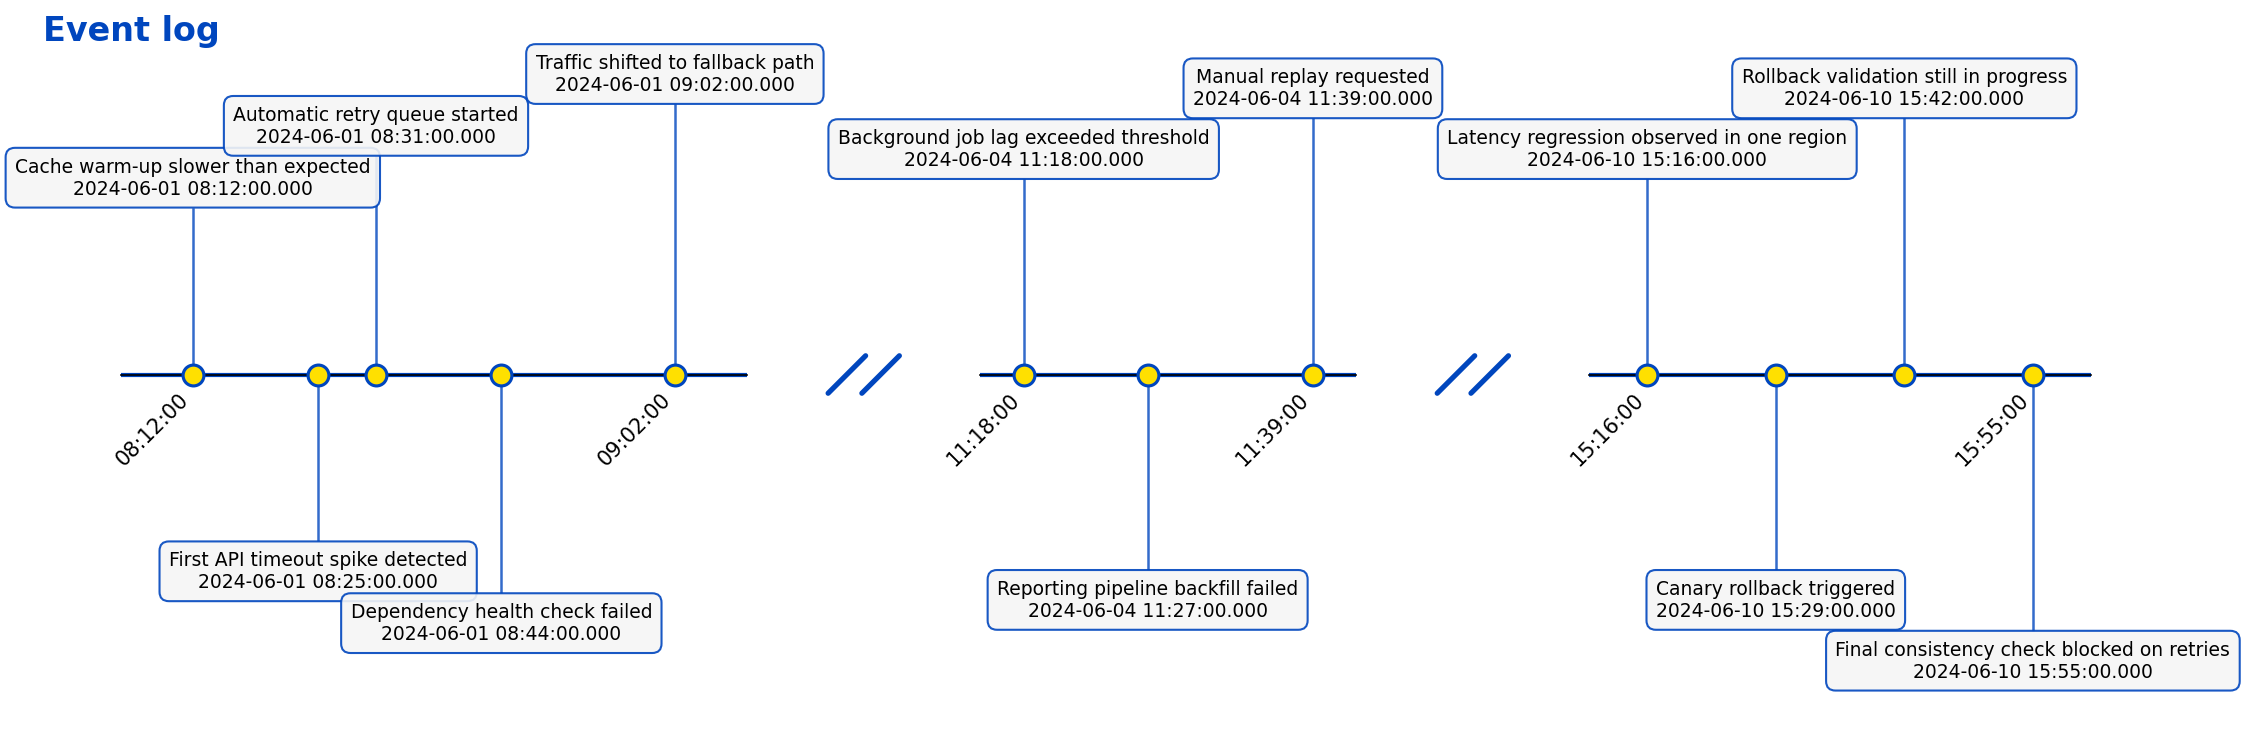
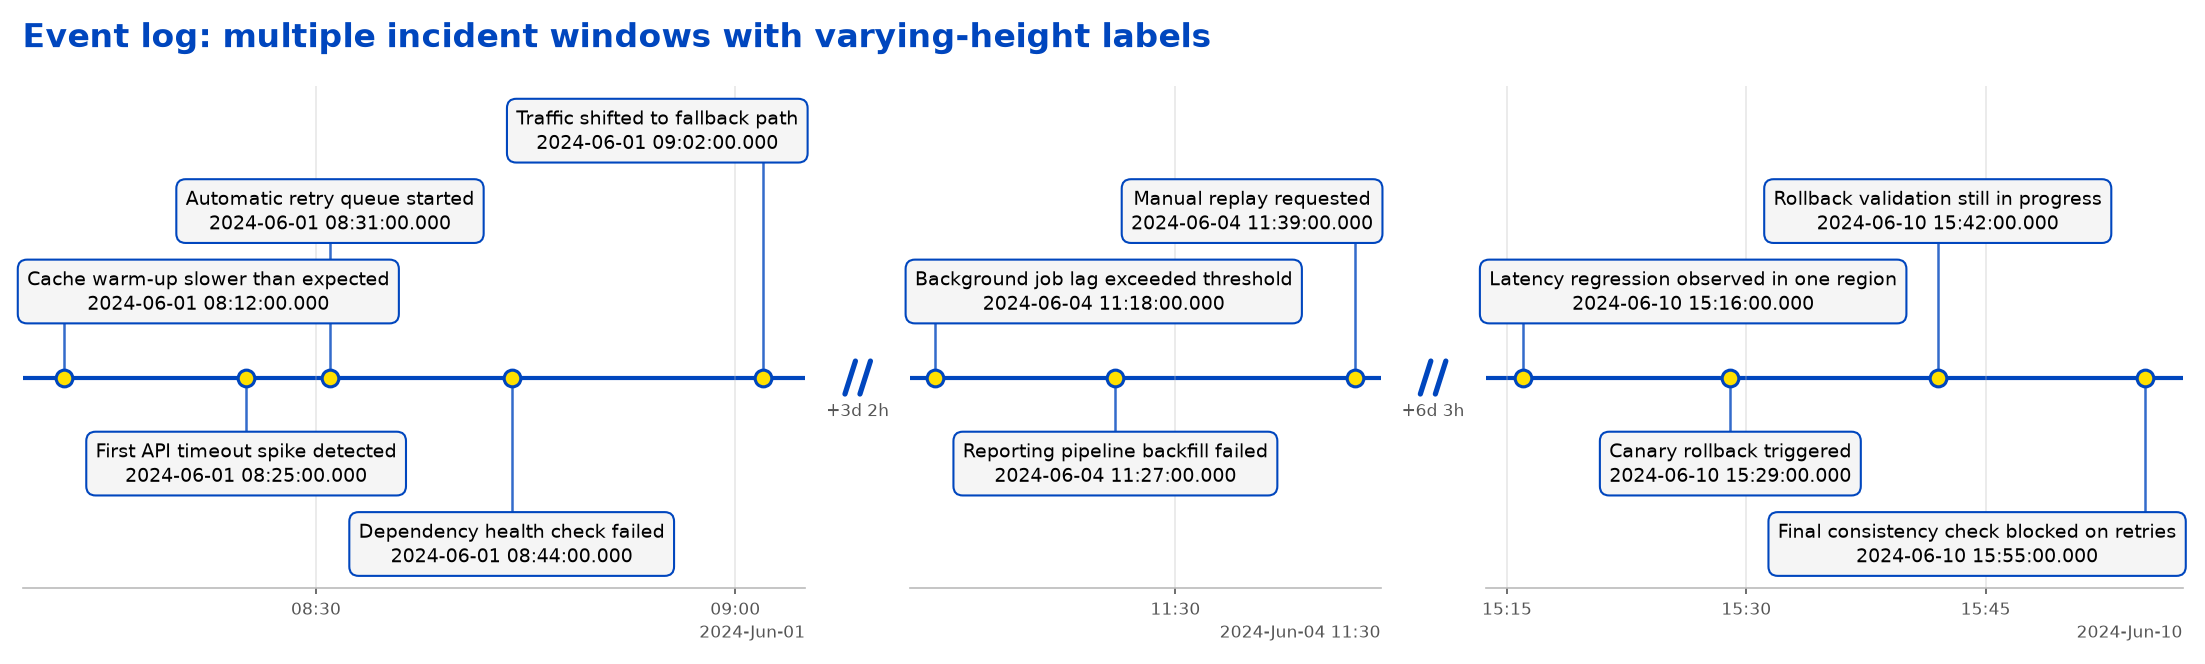
Document the new layout and regenerate timeline images
- README: layout pipeline, Timeline/render_timeline API, figsize and
  --format; DEVELOPING project layout; CHANGELOG Unreleased entries.
- examples/patient_journeys.csv and gen_charts.py now produce the
  README hero image (timeline1.png); event-log charts use auto height.
- Regenerated the five timeline images. Promtest images are left
  untouched since promtest rendering did not change.

diff --git a/examples/gen_charts.py b/examples/gen_charts.py
@@ -16,6 +16,8 @@ Writes to ``images/``:
   labels and multiple time breaks
 - ``raw_kubectl_log_timeline.png`` — raw kubectl-style timestamped logs via CLI parser
 - ``raw_timestamped_log_timeline.png`` — generic timestamp-first application logs
+- ``timeline1.png`` — wide-format README hero (``examples/patient_journeys.csv``,
+  first patient, with a time-gap break)
 """
 
 import os
@@ -23,9 +25,11 @@ import os
 import matplotlib
 
 matplotlib.use("Agg")
+import pandas as pd
+
 from timelineviz.cli import _load_event_log_input
 from timelineviz.promtest import parse_promtest_file, parse_promtest_string, plot_promtest
-from timelineviz.timeline import plot_event_log_timeline
+from timelineviz.timeline import plot_event_log_timeline, plot_timeline
 
 REPO_ROOT = os.path.abspath(os.path.join(os.path.dirname(__file__), ".."))
 OUT_DIR = os.path.join(REPO_ROOT, "images")
@@ -167,7 +171,7 @@ plot_event_log_timeline(
     show_plot=False,
     output_file=os.path.join(OUT_DIR, "event_log_timeline.png"),
     dpi=150,
-    figsize=(14, 4),
+    figsize=(14, None),  # fixed width, height fits the labels
 )
 print("Saved event_log_timeline.png")
 
@@ -183,7 +187,7 @@ plot_event_log_timeline(
     show_plot=False,
     output_file=os.path.join(OUT_DIR, "event_log_timeline_breaks.png"),
     dpi=150,
-    figsize=(15, 5),
+    figsize=(15, None),
 )
 print("Saved event_log_timeline_breaks.png")
 
@@ -199,7 +203,7 @@ plot_event_log_timeline(
     show_plot=False,
     output_file=os.path.join(OUT_DIR, "raw_kubectl_log_timeline.png"),
     dpi=150,
-    figsize=(15, 5),
+    figsize=(15, None),
 )
 print("Saved raw_kubectl_log_timeline.png")
 
@@ -217,6 +221,18 @@ plot_event_log_timeline(
     show_plot=False,
     output_file=os.path.join(OUT_DIR, "raw_timestamped_log_timeline.png"),
     dpi=150,
-    figsize=(15, 5),
+    figsize=(15, None),
 )
 print("Saved raw_timestamped_log_timeline.png")
+
+
+# Wide format: one row per entity, one column per milestone (README hero image)
+patients = pd.read_csv(os.path.join(EXAMPLES, "patient_journeys.csv"))
+plot_timeline(
+    patients.iloc[[0]],
+    entity_id="12345",
+    title="Patient Timeline - 12345",
+    threshold_days=1,
+    output_file=os.path.join(OUT_DIR, "timeline1.png"),
+    show_plot=False,
+)

diff --git a/README.md b/README.md
@@ -15,7 +15,9 @@ Timeline visualisation for CSV data and Prometheus test files.
 
 - Plot event timelines from CSV / DataFrame timestamp data
 - **Long-format logs** — one timestamp column across many rows, with optional filters on level / event type (incident-style timelines)
-- Handle time gaps with broken timeline display
+- Handle time gaps with broken timeline display, each break labelled with the time skipped
+- Collision-free labels: boxes never overlap and connectors never cross another label, and the figure grows to fit
+- Date-aware time axis, plus PNG, SVG or PDF output
 - Auto-detect timestamp columns based on naming patterns
 - **Visualise Prometheus `promtool` unit-test files** — series values, eval checkpoints, and alert checks on a relative time axis
 - Customisable colour schemes
@@ -60,6 +62,9 @@ cat data.csv | timelineviz --timestamp-columns created_at updated_at completed_a
 
 # Add more visually staggered label bubbles
 timelineviz data.csv --timestamp-columns created_at updated_at completed_at --varying-height
+
+# Vector output, fixed 12in width (height still fits the labels)
+timelineviz data.csv -t created_at updated_at -o timelines --format svg --figsize 12
 ```
 
 ```python
@@ -81,6 +86,18 @@ plot_multiple_timelines(
     id_column="entity_id",
     output_dir="timeline_images",
 )
+```
+
+The plotting functions are wrappers over three building blocks you can also use directly: build a `Timeline` from your data, then render it.
+
+```python
+from timelineviz import Event, Timeline, render_timeline, timeline_from_wide
+
+timeline = timeline_from_wide(df.iloc[0], ["created_at", "updated_at", "completed_at"])
+# ...or assemble one by hand:
+timeline = Timeline([Event(pd.Timestamp("2024-01-01 09:00"), "Kick-off")], title="Project")
+
+render_timeline(timeline, output_file="timeline.svg", show_plot=False)
 ```
 
 ### Event log (long format)
@@ -187,7 +204,11 @@ Charts are self-documenting — each subplot shows the metric name and raw notat
 
 **Long format** (`plot_event_log_timeline` / `--event-log`): many rows share one timestamp column; each row is one point. Filters apply before plotting.
 
-In both cases, when time gaps exceed a threshold, the timeline is broken into segments with slash markers indicating the breaks.
+Both formats are converted into the same `Timeline` model, then drawn in three stages:
+
+1. **Model** (`timelineviz.model`): input rows become `Event`s (time plus label). Timestamps are normalised to UTC.
+2. **Layout** (`timelineviz.layout`): events are split into panels wherever a gap exceeds `threshold_days`. Each label box is then placed in the lowest free track above or below the line, either centred on its event or shifted left/right. A box never overlaps another box, and a connector never passes through another label. The figure height follows from the tallest stack.
+3. **Render** (`timelineviz.render_mpl`): matplotlib draws the panels, a date-aware time axis, and slash marks at each break labelled with the time skipped (e.g. `+3d 2h`). The output format follows the file extension.
 
 ### Promtest Timelines
 
@@ -224,10 +245,12 @@ The model can **redesign** the information as an infographic while you **verify*
 | `timestamp_columns` | Columns containing timestamp data to visualise |
 | `id_column` | Column that uniquely identifies each entity |
 | `threshold_days` | Time gap (in days) that triggers a timeline break |
-| `varying_height` | Stagger labels above/below the line at varying heights for a more visually layered layout |
+| `varying_height` | Stagger labels over several heights even where they would fit lower (labels never overlap either way) |
+| `figsize` | `None` (default): 15in wide, height fits the labels. `(w, None)`: fixed width. `(w, h)`: fixed size |
 | `entity_name` | Type name for titles (e.g. "Patient", "Order") |
 | `label_mappings` | Custom display names for timestamp columns |
-| `color_scheme` | Dictionary of colour overrides |
+| `color_scheme` | Colour overrides; any subset of `line`, `point_edge`, `point_face`, `connector`, `label_bg`, `label_edge`, `slashes`, `title` |
+| `output_file` / `output_format` | Save path (extension picks PNG/SVG/PDF) / format for `plot_multiple_timelines` and CLI `--format` |
 
 ### Promtest Mode
 

diff --git a/CHANGELOG.md b/CHANGELOG.md
@@ -7,8 +7,25 @@ and this project adheres to [Semantic Versioning](https://semver.org/).
 
 ## [Unreleased]
 
+### Added
+
+- `Event` / `Timeline` data model (`timelineviz.model`) with `timeline_from_wide` and `timeline_from_event_log` builders, and `render_timeline` to draw any `Timeline`. All are exported from `timelineviz`.
+- Collision-free label layout (`timelineviz.layout`): label boxes never overlap, connectors never cross another label, and boxes stay inside their panel. The figure height grows to fit.
+- Timeline breaks are labelled with the time skipped (e.g. `+3d 2h`).
+- CLI `--format png|svg|pdf` and `output_format=` on `plot_multiple_timelines`. `output_file` already picked the format from its extension.
+- `examples/patient_journeys.csv`; `make example-charts` now regenerates the README hero image too.
+
+### Changed
+
+- Timelines use a date-aware time axis (`ConciseDateFormatter`) along the bottom, with light gridlines, instead of two `HH:MM:SS` ticks per panel drawn on the timeline itself.
+- `figsize` now defaults to `None`: 15in wide, height fitted to the labels. Pass `(width, None)` to fix only the width. CLI `--figsize` accepts `W` or `W,H` and defaults to auto.
+- `date_rotation` now defaults to `0` (the concise date labels no longer need rotating).
+- Panel widths are proportional to the label space each panel needs, and break marks are aligned with the timeline.
+- `varying_height` still staggers labels, but it is no longer needed to avoid overlaps.
+
 ### Fixed
 
+- `$` in labels (e.g. log messages) is shown literally instead of being parsed as mathtext.
 - Timestamps with UTC offsets are now converted to UTC instead of having the offset dropped, so events recorded in different offsets plot in true chronological order.
 - `--colors` / `color_scheme` now honour every key and accept partial schemes (unspecified keys use the defaults). Previously the CLI required all eight keys but used only `line` and `point_face`, and a partial dict through the API raised `KeyError`. Unknown keys and invalid colours are now reported as errors.
 - Wide mode with `--id-column`: an entity spread across several rows now shows the events from every row, not just the first.

diff --git a/DEVELOPING.md b/DEVELOPING.md
@@ -149,12 +149,18 @@ sequenceDiagram
 src/timelineviz/
     __init__.py       # Public API re-exports
     _version.py       # Single source of truth for version
-    timeline.py       # CSV/DataFrame visualisation
+    model.py          # Event / Timeline data model + builders (wide, event log)
+    layout.py         # Pure layout: clusters, panel geometry, collision-free label packing
+    render_mpl.py     # Matplotlib renderer for a Timeline
+    timeline.py       # Public plotting API (thin wrappers over model → layout → render)
     promtest.py       # Prometheus test file parser + visualiser
     utils.py          # Shared helpers
     cli.py            # CLI entry point (wide CSV, --event-log, --promtest)
     py.typed          # PEP 561 marker
     tests/
+        test_model.py
+        test_layout.py
+        test_render_mpl.py
         test_timeline.py
         test_promtest.py
         test_utils.py
